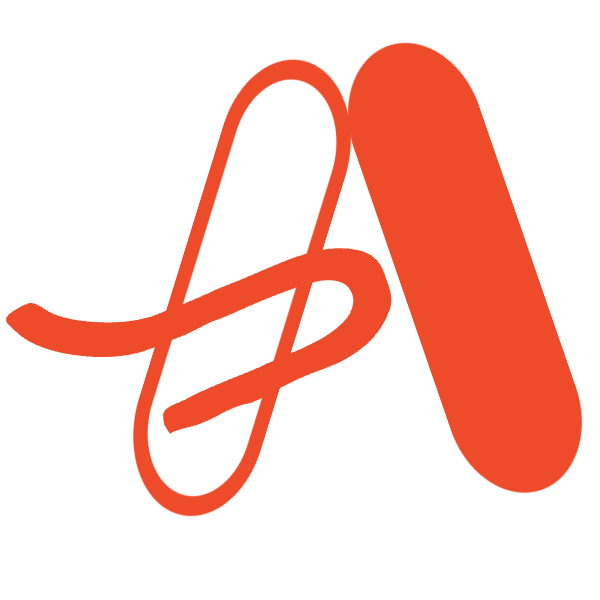
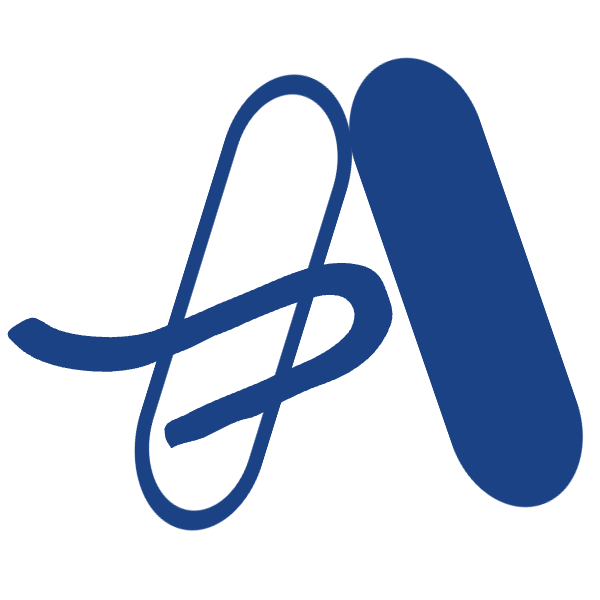
added about and contact pages

diff --git a/src/pages/Post.jsx b/src/pages/Post.jsx
@@ -2,6 +2,7 @@ import { useEffect } from 'react'
 import { useParams, useNavigate } from 'react-router-dom'
 import postData from '../data/postData'
 import Layout from '../layouts/Layout'
+import scrollToTop from '../hooks/scrollToTop'
 import { slugify } from '../hooks/slugify'
 
 const Post = () => {
@@ -12,11 +13,13 @@ const Post = () => {
   const handlePostClick = (title) => {
     const slug = slugify(title)
     navigate(`/${slug}`)
+    scrollToTop()
   }
 
   const handleCategoryClick = (category) => {
     const slug = slugify(category)
     navigate(`/category/${slug}`)
+    scrollToTop()
   }
 
   useEffect(() => {
@@ -29,21 +32,25 @@ const Post = () => {
         <div className="w-full flex flex-col gap-3">
           <div className="w-full flex flex-col gap-3">
             <div onClick={()=> handleCategoryClick(post?.category)}>
-              <p className="text-xl text-primary font-semibold cursor-pointer">{post?.category}</p>
+              <p className="text-xl text-primary font-semibold cursor-pointer font-[Lato]">{post?.category}</p>
             </div>
             <div onClick={()=> handlePostClick(post?.title)}>
-              <p className="text-2xl text-black font-bold cursor-pointer">{post?.title}</p>
+              <p className="text-2xl text-black font-bold cursor-pointer w-full lg:w-[60%]">{post?.title}</p>
             </div>
-            <div className="flex items-center gap-2 text-[#777676]">
+            <div className="flex items-center gap-2 text-[#777676] font-[Lato]">
               <p>{post?.writer}</p>
               <p>-</p>
               <p>{post?.date}</p>
             </div>
           </div>
-          <img src={post?.image} alt="Arduino" className='w-full lg:w-[60%] h-[220px] md:h-[500px] rounded-md'/>
+          <img 
+            src={post?.image} alt="Arduino" 
+            className='w-full lg:w-[60%] h-[220px] md:h-[500px] rounded-md' 
+            onClick={()=> handlePostClick(post?.title)}
+          />
           <p className='text-[#777676]'>Image Source: {post?.imgSource}</p>
           <div className='py-4'>
-            <p className=' leading-7 text-[17px]'>{post?.content}</p>
+            <p className=' leading-8 text-[17px] font-[Open Sans]'>{post?.content}</p>
           </div>
           <div>
           <div className="pb-3 md:pb-8">
@@ -55,18 +62,18 @@ const Post = () => {
               <div key={data?.id}>
                 <div className="flex justify-between gap-3 w-full py-4 md:h-[200px]">
                   <div className="w-[60%] flex flex-col gap-1">
-                    <div onClick={()=> handleCategoryClick(post?.category)}>
-                      <p className="text-[18px] text-primary font-semibold cursor-pointer">{data?.category}</p>
+                    <div onClick={()=> handleCategoryClick(data?.category)}>
+                      <p className="text-[18px] text-primary font-semibold cursor-pointer font-[Lato]">{data?.category}</p>
                     </div>
                     <div onClick={()=> handlePostClick(data?.title)}>
                       <p className="text-xl text-black font-bold hover:underline cursor-pointer">{data?.title}</p>
                     </div>
-                    <div className="flex flex-col gap-1 text-[#777676]">
+                    <div className="flex flex-col gap-1 text-[#777676] font-[Lato]">
                         <p>{data?.writer}</p>
                         <p>{data?.date}</p>
                     </div>
                   </div>
-                  <div className="w-[40%] flex items-center">
+                  <div className="w-[40%] flex items-center" onClick={()=> handlePostClick(data?.title)}>
                     <img src={data?.image} alt="Arduino" className='w-full h-[100px] md:h-[180px] rounded-md cursor-pointer'/>
                   </div>
                 </div>

diff --git a/src/pages/Search.jsx b/src/pages/Search.jsx
@@ -1,9 +1,12 @@
 import { useEffect, useState } from "react"
+import { useNavigate } from 'react-router-dom'
 import postData from "../data/postData"
 import Layout from '../layouts/Layout'
 import SearchIcon from '../components/utils/icons/SearchIcon'
+import { slugify } from '../hooks/slugify'
 
 const Search = () => {
+  const navigate = useNavigate()
   const [searchTerm, setSearchTerm] = useState("") // Trck what the user is typing
   const [displayedSearchTerm, setDisplayedSearchTerm] = useState("") // Track the term used for the search result display
   const [searchResults, setSearchResults] = useState([])
@@ -26,6 +29,16 @@ const Search = () => {
       setNoResults(true)
       setSearchResults([])
     }
+  }
+
+  const handlePostClick = (title) => {
+    const slug = slugify(title)
+    navigate(`/${slug}`)
+  }
+
+  const handleCategoryClick = (category) => {
+    const slug = slugify(category)
+    navigate(`/category/${slug}`)
   }
 
   useEffect(() => {
@@ -70,15 +83,19 @@ const Search = () => {
                 <div key={item?.id}>
                   <div className="flex justify-between gap-3 w-full py-4 md:h-[200px]">
                     <div className="w-[60%] flex flex-col gap-1">
-                        <p className="text-[18px] text-primary font-semibold">{item?.category}</p>
-                        <p className="text-xl text-black font-bold hover:underline">{item?.title}</p>
+                        <div onClick={()=> handleCategoryClick(item?.category)}>
+                          <p className="text-[18px] text-primary font-semibold cursor-pointer">{item?.category}</p>
+                        </div>
+                        <div onClick={()=> handlePostClick(item?.title)}>
+                          <p className="text-xl text-black font-bold hover:underline cursor-pointer ">{item?.title}</p>
+                        </div>
                         <div className="flex flex-col gap-1 text-[#777676]">
                             <p>{item?.writer}</p>
                             <p>{item?.date}</p>
                         </div>
                     </div>
-                    <div className="w-[40%] flex items-center">
-                      <img src={item?.image} alt="Arduino" className='w-full h-[100px] md:h-[180px] rounded-md'/>
+                    <div className="w-[40%] flex items-center" onClick={()=> handlePostClick(item?.title)}>
+                      <img src={item?.image} alt="Arduino" className='w-full h-[100px] md:h-[180px] rounded-md cursor-pointer'/>
                     </div>
                   </div>
                 </div>

diff --git a/src/components/home/SectionOneLg.jsx b/src/components/home/SectionOneLg.jsx
@@ -23,12 +23,12 @@ const SectionOneLg = () => {
           <div key={data?.id} className="w-full h-full flex flex-col justify-between gap-3">
             <div className="w-full flex flex-col gap-3 h-[35vh]">
               <div onClick={()=> handleCategoryClick(data?.category)}>
-                <p className="text-xl text-primary font-semibold cursor-pointer">{data?.category}</p>
+                <p className="text-xl text-primary font-semibold cursor-pointer font-[Lato]">{data?.category}</p>
               </div>
               <div onClick={()=> handlePostClick(data?.title)}>
                 <p className="text-2xl text-black font-bold hover:underline cursor-pointer">{data?.title}</p>
               </div>
-              <div className="flex items-center gap-2 text-[#777676]">
+              <div className="flex items-center gap-2 text-[#777676] font-[Lato]">
                 <p>{data?.writer}</p>
                 <p>-</p>
                 <p>{data?.date}</p>
@@ -45,12 +45,12 @@ const SectionOneLg = () => {
           <div key={data?.id} className="h-[20vh] flex gap-3">
             <div className='w-[50%] h-fit'>
               <div onClick={()=> handleCategoryClick(data?.category)}>
-                <p className="text-sm text-primary font-semibold cursor-pointer">{data?.category}</p>
+                <p className="text-sm text-primary font-semibold cursor-pointer font-[Lato]">{data?.category}</p>
               </div>
               <div onClick={()=> handlePostClick(data?.title)}>
                 <p className="text-[18px] text-black font-bold hover:underline cursor-pointer">{data?.title}</p>
               </div>
-              <div className="flex items-center gap-2 text-[#777676] text-sm">
+              <div className="flex items-center gap-2 text-[#777676] text-sm font-[Lato]">
                 <p>{data?.writer}</p>
                 <p>-</p>
                 <p>{data?.date}</p>

diff --git a/src/pages/AboutUs.jsx b/src/pages/AboutUs.jsx
@@ -1,8 +1,25 @@
+import { useEffect } from "react"
+import Layout from "../layouts/Layout"
+
 const AboutUs = () => {
+  useEffect(() => {
+    window.scrollTo(0, 0)
+  }, [])
+
   return (
-    <div>
-      
+   <Layout>
+    <div className="pt-20 pb-6 px-6 md:px-20">
+      <p className="font-semibold text-[28px] md:text-3xl pb-3 md:py-6">About Us</p>
+      <div>
+        <p className="text-[17px] flex flex-col gap-3 font-[Lato]">
+          <p>At Alimego, our mission is to provide you with fast, accurate, and reliable updates on the latest technology. We’re passionate about keeping you informed, whether it&apos;s new gadgets, software updates, or major breakthroughs in the tech world. Our goal is to build a community of tech enthusiasts who are always in the know and ready to share their knowledge with others.</p>
+          <p>We started in 2024 with the belief that staying connected to technology is more important than ever. As technology continues to shape our lives in new and exciting ways, we’re here to help you stay ahead of the curve. From daily updates to deep dives into trends.</p> 
+          <p>Our vision is to become a leading platform that inspires the next generation of tech lovers, innovators, and curious minds. Whether you’re a professional in the industry or just someone who enjoys keeping up with the latest advancements, Alimego is here to make sure you never miss a beat.</p>
+          <p>Technology never stands still, and neither do we. Our team is committed to bringing you the information that matters, helping you stay informed and engaged in a world that’s constantly changing. We believe that by staying connected to new ideas and developments, you can be part of the future of technology.</p>
+        </p>
+      </div>
     </div>
+   </Layout>
   )
 }
 

diff --git a/src/pages/Category.jsx b/src/pages/Category.jsx
@@ -32,17 +32,17 @@ const Category = () => {
                     <div className="flex justify-between gap-3 w-full py-4 md:h-[200px]">
                     <div className="w-[60%] flex flex-col gap-1">
                         <div onClick={()=> handleCategoryClick(data?.category)}>
-                            <p className="text-[18px] text-primary font-semibold cursor-pointer">{data?.category}</p>
+                            <p className="text-[18px] text-primary font-semibold cursor-pointer font-[Lato]">{data?.category}</p>
                         </div>
                         <div onClick={()=> handlePostClick(data?.title)}>
                             <p className="text-xl text-black font-bold hover:underline cursor-pointer">{data?.title}</p>
                         </div>
-                        <div className="flex flex-col gap-1 text-[#777676]">
+                        <div className="flex flex-col gap-1 text-[#777676] font-[Lato]">
                             <p>{data?.writer}</p>
                             <p>{data?.date}</p>
                         </div>
                     </div>
-                    <div className="w-[40%] flex items-center">
+                    <div className="w-[40%] flex items-center" onClick={()=> handlePostClick(data?.title)}>
                         <img src={data?.image} alt="Arduino" className='w-full h-[100px] md:h-[180px] rounded-md cursor-pointer'/>
                     </div>
                     </div>

diff --git a/src/pages/ContactUs.jsx b/src/pages/ContactUs.jsx
@@ -1,8 +1,42 @@
+import { useEffect } from "react"
+import Layout from "../layouts/Layout"
+
 const ContactUs = () => {
+  useEffect(() => {
+    window.scrollTo(0, 0)
+  }, [])
+
   return (
-    <div>
-      
+   <Layout>
+    <div className="pt-20 pb-6 px-6 md:px-20">
+      <p className="font-semibold text-[28px] md:text-3xl py-3 md:py-6">Contact Us</p>
+      <form className="w-full md:w-[90%] flex flex-col gap-6">
+        <input 
+          type="type"
+          placeholder='Name*' 
+          required 
+          className='w-full bg-[#f7f7f7] text-xl text-black outline-none p-4 border-1 border-black rounded-lg'
+        /> 
+        <input 
+          type="type"
+          placeholder='Email*' 
+          required 
+          className='w-full bg-[#f7f7f7] text-xl text-black outline-none p-4 border-1 border-black rounded-lg'
+        />
+        <input 
+          type="type"
+          placeholder='Phone Number' 
+          className='w-full bg-[#f7f7f7] text-xl text-black outline-none p-4 border-1 border-black rounded-lg'
+        />
+        <textarea 
+          required
+          placeholder='Message*'
+          className='w-full bg-[#f7f7f7] text-xl text-black outline-none p-4 border-1 border-black rounded-lg' 
+        />
+        <button className="bg-primary p-4 text-white text-2xl font-semibold rounded-lg">Send</button>
+      </form>
     </div>
+   </Layout>
   )
 }
 

diff --git a/src/components/Footer.jsx b/src/components/Footer.jsx
@@ -16,12 +16,12 @@ const Footer = () => {
             <p className='block text-2xl md:text-3xl font-bold text-primary'>ALIMEGO</p>
           </div>
         </Link>
-        <div className='text-center font-medium md:w-[600px]'>Alimego Empowers you with Knowledge. Get the latest insights and updates on the ever-evolving world of technology.</div>
+        <div className='text-center font-medium md:w-[600px] font-[Lato]'>Alimego Empowers you with Knowledge. Get the latest insights and updates on the ever-evolving world of technology.</div>
       </div>
-      <ul className='flex gap-10 md:gap-20 justify-center items-center py-4 md:py-6 text-[18px]'>
-        <li className='cursor-pointer'>About Us</li>
-        <li className='cursor-pointer'>Contact Us</li>
-        <li className='cursor-pointer'>Events</li>
+      <ul className='flex gap-10 md:gap-20 justify-center items-center py-4 md:py-6 text-[18px] font-[Lato]'>
+        <Link to={'/about'}>About</Link>
+        <Link to={'/contact'}>Contact</Link>
+        <Link to={'/jobs'}>Jobs</Link>
       </ul>
       <div className='pt-4'>
         <p className='text-center text-[18px] font-semibold'>Follow us:</p>

diff --git a/src/components/home/SectionTwo.jsx b/src/components/home/SectionTwo.jsx
@@ -28,12 +28,12 @@ const SectionTwo = () => {
             <div className="flex justify-between gap-3 w-full py-4 md:h-[200px]">
               <div className="w-[60%] flex flex-col gap-1">
                   <div onClick={()=> handleCategoryClick(data?.category)}>
-                    <p className="text-[18px] text-primary font-semibold cursor-pointer">{data?.category}</p>
+                    <p className="text-[18px] text-primary font-semibold cursor-pointer font-[Lato]">{data?.category}</p>
                   </div>
                   <div onClick={()=> handlePostClick(data?.title)}>
                     <p className="text-xl text-black font-bold hover:underline cursor-pointer">{data?.title}</p>
                   </div>
-                  <div className="flex flex-col gap-1 text-[#777676]">
+                  <div className="flex flex-col gap-1 text-[#777676] font-[Lato]">
                       <p>{data?.writer}</p>
                       <p>{data?.date}</p>
                   </div>

diff --git a/src/components/home/SectionOne.jsx b/src/components/home/SectionOne.jsx
@@ -22,12 +22,12 @@ const SectionOne = () => {
         <div key={data?.id} className="flex">
           <div  className="w-full flex flex-col gap-3">
             <div onClick={()=> handleCategoryClick(data?.category)}>
-              <p className="text-xl text-primary font-semibold cursor-pointer">{data?.category}</p>
+              <p className="text-xl text-primary font-semibold cursor-pointer font-[Lato]">{data?.category}</p>
             </div>
             <div onClick={()=> handlePostClick(data?.title)}>
               <p className="text-2xl text-black font-bold hover:underline cursor-pointer">{data?.title}</p>
             </div>
-            <div className="flex items-center gap-2 text-[#777676]">
+            <div className="flex items-center gap-2 text-[#777676] font-[Lato]">
               <p>{data?.writer}</p>
               <p>-</p>
               <p>{data?.date}</p>

diff --git a/src/components/utils/icons/SearchIcon.jsx b/src/components/utils/icons/SearchIcon.jsx
@@ -9,7 +9,7 @@ function SearchIcon() {
     >
       <path
         d="M24.6582 21.6162L19.79 16.748C19.5703 16.5283 19.2725 16.4062 18.96 16.4062H18.1641C19.5117 14.6826 20.3125 12.5146 20.3125 10.1562C20.3125 4.5459 15.7666 0 10.1562 0C4.5459 0 0 4.5459 0 10.1562C0 15.7666 4.5459 20.3125 10.1562 20.3125C12.5146 20.3125 14.6826 19.5117 16.4062 18.1641V18.96C16.4062 19.2725 16.5283 19.5703 16.748 19.79L21.6162 24.6582C22.0752 25.1172 22.8174 25.1172 23.2715 24.6582L24.6533 23.2764C25.1123 22.8174 25.1123 22.0752 24.6582 21.6162ZM10.1562 16.4062C6.7041 16.4062 3.90625 13.6133 3.90625 10.1562C3.90625 6.7041 6.69922 3.90625 10.1562 3.90625C13.6084 3.90625 16.4062 6.69922 16.4062 10.1562C16.4062 13.6084 13.6133 16.4062 10.1562 16.4062Z"
-        fill="#EE4B2B"
+        fill="#1B4285"
       />
     </svg>
   );

diff --git a/src/index.css b/src/index.css
@@ -1,4 +1,4 @@
-@import url('https://fonts.googleapis.com/css2?family=Montserrat:ital,wght@0,100..900;1,100..900&family=Roboto:ital,wght@0,100;0,300;0,400;0,500;0,700;0,900;1,100;1,300;1,400;1,500;1,700;1,900&display=swap');
+@import url('https://fonts.googleapis.com/css2?family=Lato:ital,wght@0,100;0,300;0,400;0,700;0,900;1,100;1,300;1,400;1,700;1,900&family=Montserrat:ital,wght@0,100..900;1,100..900&family=Open+Sans:ital,wght@0,300..800;1,300..800&family=Poppins:ital,wght@0,100;0,200;0,300;0,400;0,500;0,600;0,700;0,800;0,900;1,100;1,200;1,300;1,400;1,500;1,600;1,700;1,800;1,900&family=Roboto:ital,wght@0,100;0,300;0,400;0,500;0,700;0,900;1,100;1,300;1,400;1,500;1,700;1,900&display=swap');
 
 
 @tailwind base;

diff --git a/src/components/Navbar.jsx b/src/components/Navbar.jsx
@@ -10,7 +10,7 @@ const Navbar = () => {
       <Link to='/'>
         <div className='flex items-center gap-2 md:gap-4' onClick={scrollToTop}>
           <img src={alimego} alt='ALIMEGO' className='w-[50px] md:w-[60px] h-[50px] md:h-[60px]'/>
-          <p className='block text-2xl md:text-3xl font-bold text-primary'>ALIMEGO</p>
+          <p className='block text-2xl md:text-3xl font-bold text-primary font-[Poppins]'>ALIMEGO</p>
         </div>
       </Link>
       <div className='flex items-center gap-2 md:gap-10'>
